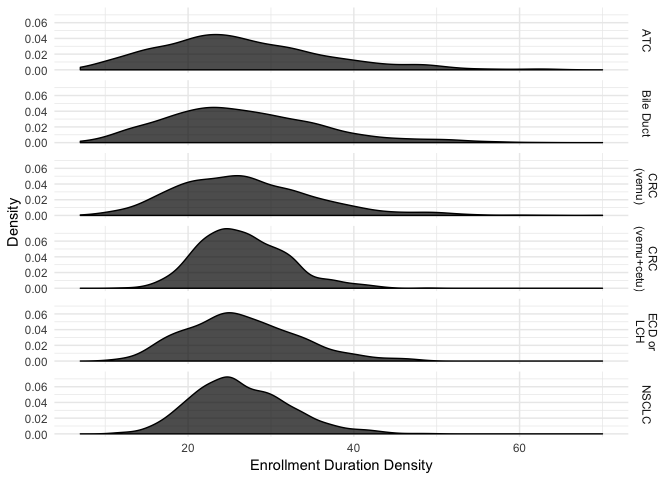
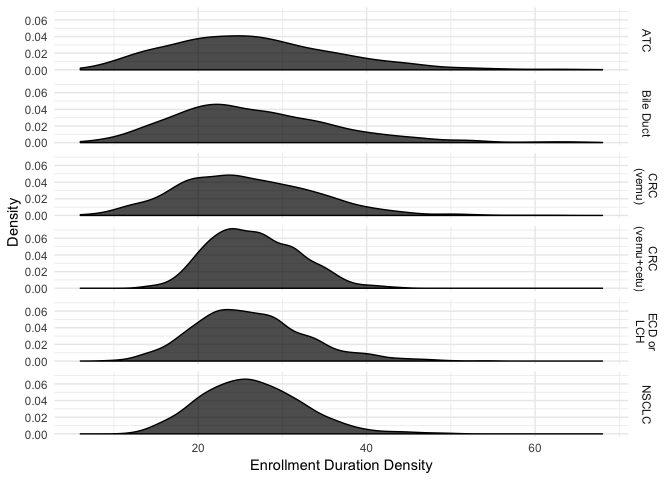
Updates.

diff --git a/README.md b/README.md
@@ -48,13 +48,13 @@ Simulate an Arm of a Clinical Trial
 <tr class="odd">
 <td style="text-align: right;">5</td>
 <td style="text-align: right;">1</td>
-<td style="text-align: right;">0</td>
+<td style="text-align: right;">1</td>
 <td style="text-align: right;">1</td>
 </tr>
 <tr class="even">
 <td style="text-align: right;">6</td>
 <td style="text-align: right;">1</td>
-<td style="text-align: right;">1</td>
+<td style="text-align: right;">0</td>
 <td style="text-align: right;">1</td>
 </tr>
 <tr class="odd">
@@ -84,25 +84,25 @@ Simulate an Arm of a Clinical Trial
 <tr class="odd">
 <td style="text-align: right;">1</td>
 <td style="text-align: right;">1</td>
-<td style="text-align: right;">0</td>
+<td style="text-align: right;">1</td>
 <td style="text-align: right;">2</td>
 </tr>
 <tr class="even">
 <td style="text-align: right;">2</td>
 <td style="text-align: right;">1</td>
-<td style="text-align: right;">0</td>
+<td style="text-align: right;">1</td>
 <td style="text-align: right;">2</td>
 </tr>
 <tr class="odd">
 <td style="text-align: right;">3</td>
 <td style="text-align: right;">1</td>
-<td style="text-align: right;">1</td>
+<td style="text-align: right;">0</td>
 <td style="text-align: right;">2</td>
 </tr>
 <tr class="even">
 <td style="text-align: right;">4</td>
 <td style="text-align: right;">1</td>
-<td style="text-align: right;">1</td>
+<td style="text-align: right;">0</td>
 <td style="text-align: right;">2</td>
 </tr>
 <tr class="odd">
@@ -114,13 +114,13 @@ Simulate an Arm of a Clinical Trial
 <tr class="even">
 <td style="text-align: right;">6</td>
 <td style="text-align: right;">1</td>
-<td style="text-align: right;">0</td>
+<td style="text-align: right;">1</td>
 <td style="text-align: right;">2</td>
 </tr>
 <tr class="odd">
 <td style="text-align: right;">7</td>
 <td style="text-align: right;">1</td>
-<td style="text-align: right;">1</td>
+<td style="text-align: right;">0</td>
 <td style="text-align: right;">2</td>
 </tr>
 <tr class="even">
@@ -164,14 +164,14 @@ Simulate an Arm of a Clinical Trial with Poisson Enrollment
 </thead>
 <tbody>
 <tr class="odd">
-<td style="text-align: right;">3</td>
+<td style="text-align: right;">2</td>
 <td style="text-align: right;">2</td>
 <td style="text-align: right;">0</td>
 <td style="text-align: right;">1</td>
 </tr>
 <tr class="even">
-<td style="text-align: right;">4</td>
-<td style="text-align: right;">1</td>
+<td style="text-align: right;">3</td>
+<td style="text-align: right;">2</td>
 <td style="text-align: right;">1</td>
 <td style="text-align: right;">1</td>
 </tr>
@@ -182,19 +182,25 @@ Simulate an Arm of a Clinical Trial with Poisson Enrollment
 <td style="text-align: right;">1</td>
 </tr>
 <tr class="even">
-<td style="text-align: right;">6</td>
-<td style="text-align: right;">3</td>
+<td style="text-align: right;">9</td>
 <td style="text-align: right;">1</td>
+<td style="text-align: right;">0</td>
 <td style="text-align: right;">1</td>
 </tr>
 <tr class="odd">
-<td style="text-align: right;">7</td>
+<td style="text-align: right;">15</td>
 <td style="text-align: right;">2</td>
 <td style="text-align: right;">1</td>
 <td style="text-align: right;">1</td>
 </tr>
 <tr class="even">
-<td style="text-align: right;">10</td>
+<td style="text-align: right;">18</td>
+<td style="text-align: right;">1</td>
+<td style="text-align: right;">1</td>
+<td style="text-align: right;">1</td>
+</tr>
+<tr class="odd">
+<td style="text-align: right;">22</td>
 <td style="text-align: right;">1</td>
 <td style="text-align: right;">0</td>
 <td style="text-align: right;">1</td>
@@ -222,12 +228,9 @@ Simulate a Trial
     # number enrolled.
     lambda <- size / max(size)
 
-    # Create a poisson sampler for each arm. Use the goofy !! notation.
-    psampler <- lapply(lambda, function(l) partial(rpois, n = 1, lambda = !!l))
-
     # Use the sampler to change the enrollement duration.
     # Resample 1000 trials in parallel and keep track of their lengths
-    trials <- trial_bin_resample(resps, size, name, 1000, sampler = psampler) %>%
+    trials <- bin_trial_resample(resps, size, name, 1000, sampler = poisson_sampler(lambda)) %>%
       group_by(name, sim) %>% 
       summarize(trial_length = max(period))
 
@@ -251,33 +254,33 @@ Get the Expected Arm Duration and SD
 <tbody>
 <tr class="odd">
 <td style="text-align: left;">ATC</td>
-<td style="text-align: right;">26.418</td>
-<td style="text-align: right;">9.960748</td>
+<td style="text-align: right;">26.465</td>
+<td style="text-align: right;">9.886785</td>
 </tr>
 <tr class="even">
 <td style="text-align: left;">Bile Duct</td>
-<td style="text-align: right;">26.624</td>
-<td style="text-align: right;">9.285518</td>
+<td style="text-align: right;">26.632</td>
+<td style="text-align: right;">9.528030</td>
 </tr>
 <tr class="odd">
 <td style="text-align: left;">CRC (vemu)</td>
-<td style="text-align: right;">26.991</td>
-<td style="text-align: right;">8.511131</td>
+<td style="text-align: right;">25.792</td>
+<td style="text-align: right;">8.130735</td>
 </tr>
 <tr class="even">
 <td style="text-align: left;">CRC (vemu+cetu)</td>
-<td style="text-align: right;">26.625</td>
-<td style="text-align: right;">5.255092</td>
+<td style="text-align: right;">26.643</td>
+<td style="text-align: right;">5.233253</td>
 </tr>
 <tr class="odd">
 <td style="text-align: left;">ECD or LCH</td>
-<td style="text-align: right;">26.475</td>
-<td style="text-align: right;">6.696583</td>
+<td style="text-align: right;">26.203</td>
+<td style="text-align: right;">6.597068</td>
 </tr>
 <tr class="even">
 <td style="text-align: left;">NSCLC</td>
-<td style="text-align: right;">26.355</td>
-<td style="text-align: right;">5.791936</td>
+<td style="text-align: right;">26.463</td>
+<td style="text-align: right;">6.039960</td>
 </tr>
 </tbody>
 </table>
